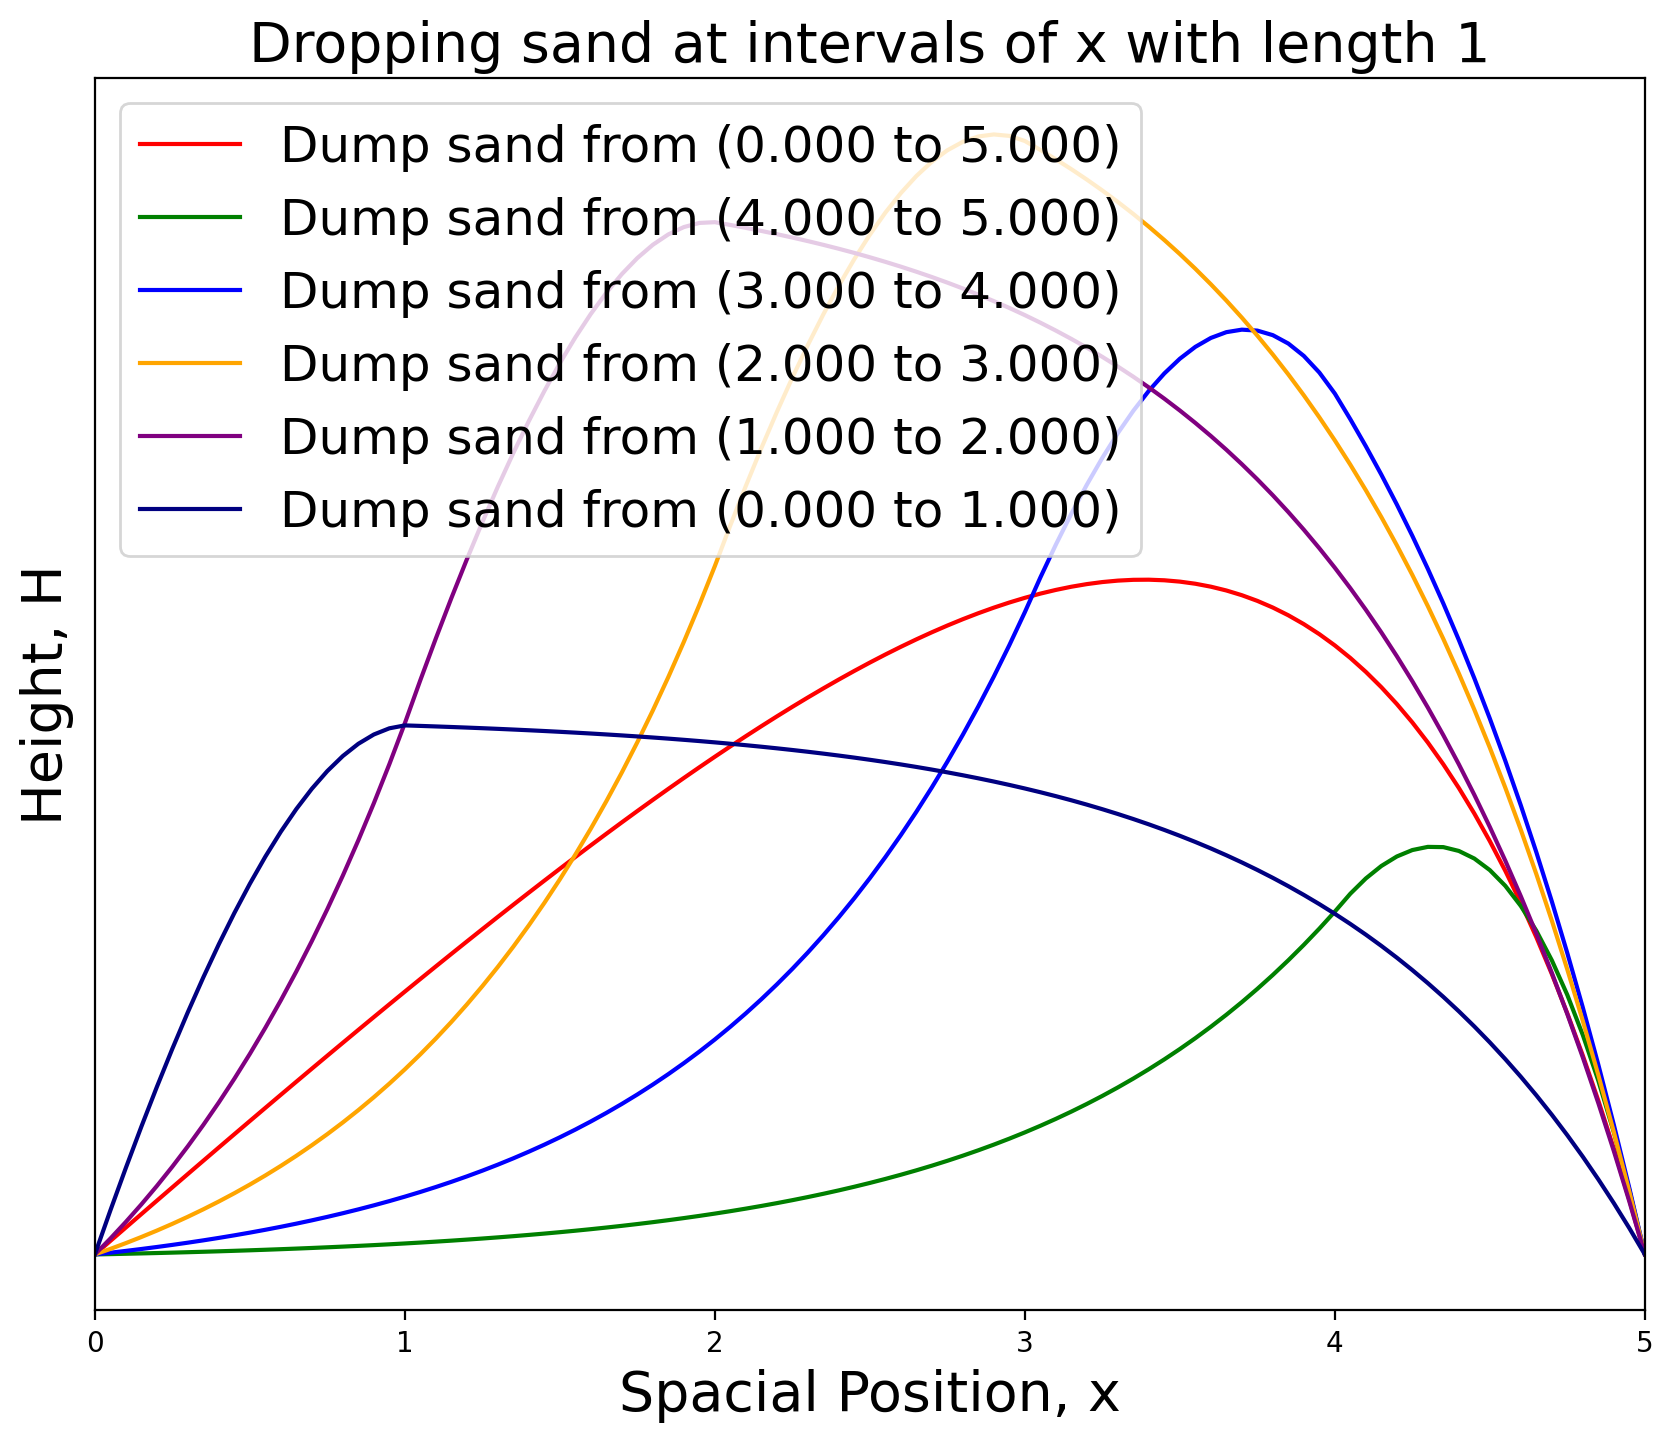
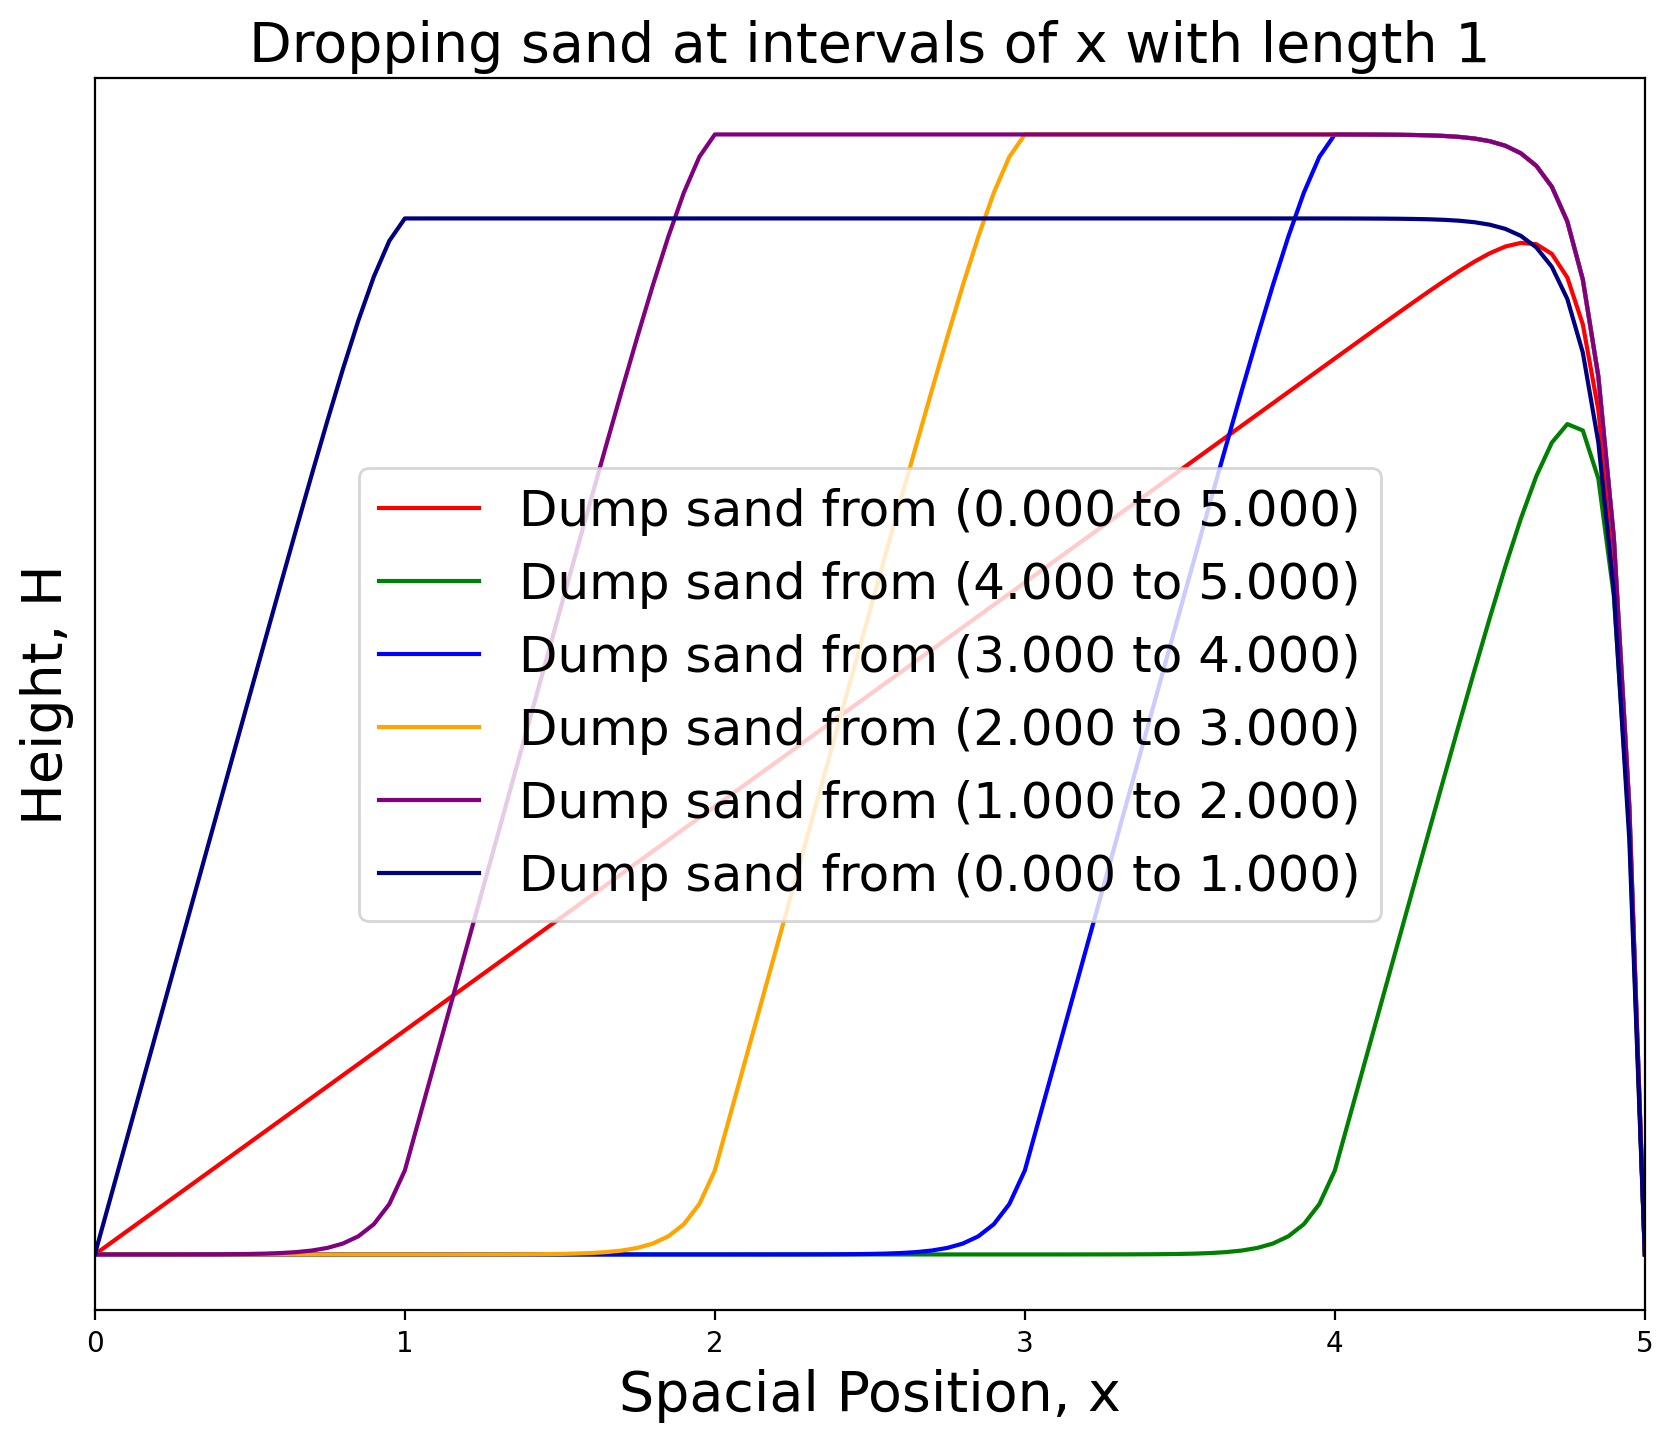
Ata

diff --git a/Sand.py b/Sand.py
@@ -221,7 +221,7 @@ blues = ['navy', 'royalblue','mediumslateblue', 'dodgerblue', 'skyblue', 'lights
 
 # ===== S(x, t) non-constant - Space dependent =====
 
-# plt.figure(6, figsize=(10, 8), dpi=200)
+plt.figure(6, figsize=(10, 8), dpi=200)
 
 xLo, xHi = 0, 5
 def S_linear_space(x, t):
@@ -230,62 +230,39 @@ def S_linear_space(x, t):
     else:
         return 0.0
 
-# xvals = [[0,5],[0,4],[0,3],[0,2],[0,1]]
-# for i in range(0, len(xvals)):
-#     xLo, xHi = xvals[i][0], xvals[i][1]
-#     label = "Dump sand from (" + "%0.3f" % (int(xLo)) + " to " + "%0.3f" % (int(xHi)) + ")"
-#     x_pde, u_num = numerical(S_linear_space, 0.5, 0.5, 5)
-#     plt.plot(x_pde, u_num[:,-1], color = colours[i], label = label)
+xvals = [[0,5],[0,4],[0,3],[0,2],[0,1]]
+for i in range(0, len(xvals)):
+    xLo, xHi = xvals[i][0], xvals[i][1]
+    label = "Dump sand from (" + "%0.3f" % (int(xLo)) + " to " + "%0.3f" % (int(xHi)) + ")"
+    x_pde, u_num = numerical(S_linear_space, 0.5, 0.5, 5)
+    plt.plot(x_pde, u_num[:,-1], color = colours[i], label = label)
 
-# plt.legend(fontsize=18)
-# plt.yticks([])
-# plt.xlim(0,length) # zoom in on area of interest
-# plt.title('Dropping sand at increasing intervals of x', fontsize = 20)
-# plt.xlabel('Spacial Position, x', fontsize = 20)
-# plt.ylabel('Height, H', fontsize = 20)
-# plt.savefig('Sand with intervals of x.png', bbox_inches="tight")
-
-
-# plt.figure(7, figsize=(10, 8), dpi=200)
-
-# xvals = [[0,5],[4,5],[3,4],[2,3],[1,2],[0,1]]
-# for i in range(0, len(xvals)):
-#     xLo, xHi = xvals[i][0], xvals[i][1]
-#     label = "Dump sand from (" + "%0.3f" % (int(xLo)) + " to " + "%0.3f" % (int(xHi)) + ")"
-#     x_pde, u_num = numerical(S_linear_space, 0.5, 0.5, 5)
-#     plt.plot(x_pde, u_num[:,-1], color = colours[i], label = label)
-
-# plt.legend(fontsize=18)
-# plt.yticks([])
-# plt.xlim(0,length) # zoom in on area of interest
-# plt.title('Dropping sand at intervals of x with length 1', fontsize = 20)
-# plt.xlabel('Spacial Position, x', fontsize = 20)
-# plt.ylabel('Height, H', fontsize = 20)
-# plt.savefig('Sand with intervals of x 2.png', bbox_inches="tight")
+plt.legend(fontsize=18)
+plt.yticks([])
+plt.xlim(0,length) # zoom in on area of interest
+plt.title('Dropping sand at increasing intervals of x', fontsize = 20)
+plt.xlabel('Spacial Position, x', fontsize = 20)
+plt.ylabel('Height, H', fontsize = 20)
+plt.savefig('Sand with intervals of x.png', bbox_inches="tight")
 
 
-# plt.figure(8, figsize=(10, 8), dpi=200)
+plt.figure(7, figsize=(10, 8), dpi=200)
 
-# xLo, xHi = 0, 5
-# def S_linear_space_restricted(x, t):
-#     if xLo < x < xHi:
-#         return 1.0
-#     else:
-#         return 0.0
+xvals = [[0,5],[4,5],[3,4],[2,3],[1,2],[0,1]]
+for i in range(0, len(xvals)):
+    xLo, xHi = xvals[i][0], xvals[i][1]
+    label = "Dump sand from (" + "%0.3f" % (int(xLo)) + " to " + "%0.3f" % (int(xHi)) + ")"
+    x_pde, u_num = numerical(S_linear_space, 0.5, 0.5, 5)
+    plt.plot(x_pde, u_num[:,-1], color = colours[i], label = label)
 
-# xvals = [[0,1], [0,2], [0,3], [0,4], [0,5]]
-# for i in range(0, len(xvals)):
-#     xLo, xHi = xvals[i][0], xvals[i][1]
-#     label = "Dump sand from (" + "%0.3f" % (int(xLo)) + " to " + "%0.3f" % (int(xHi)) + ")"
-#     x_pde, u_num = numerical(S_linear_space_restricted, 0.5, 0.5, 5)
-#     plt.plot(x_pde, u_num[:,-1], color = colours[i], label = label)
+plt.legend(fontsize=18)
+plt.yticks([])
+plt.xlim(0,length) # zoom in on area of interest
+plt.title('Dropping sand at intervals of x with length 1', fontsize = 20)
+plt.xlabel('Spacial Position, x', fontsize = 20)
+plt.ylabel('Height, H', fontsize = 20)
+plt.savefig('Sand with intervals of x 2.png', bbox_inches="tight")
 
-# plt.legend()
-# plt.yticks([])
-# plt.xlim(0,length) # zoom in on area of interest
-# plt.xlabel('Spacial Position, x', fontsize = 20)
-# plt.ylabel('Height, H', fontsize = 20)
-# plt.savefig('Sand with intervals of x 3.png', bbox_inches="tight")
 
 plt.figure(9, figsize=(10, 8), dpi=200)
 
